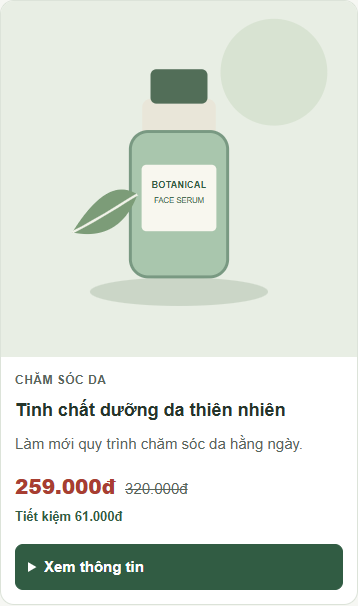
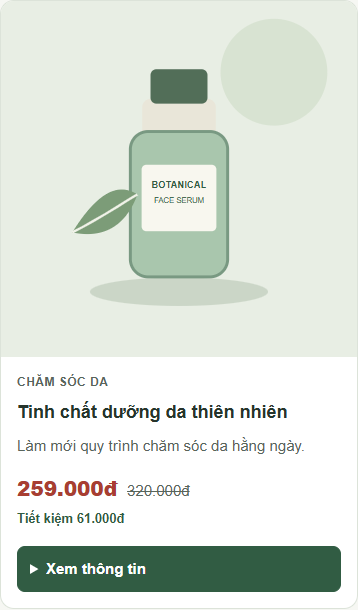
Record student CSS practice and final verification

diff --git a/css/style.css b/css/style.css
@@ -173,7 +173,7 @@ section, main { scroll-margin-top: 20px; }
   .section-heading { margin-bottom: 24px; text-align: left; }
   .section-description { font-size: .9375rem; }
   .product-grid { grid-template-columns: minmax(0, 1fr); gap: 20px; }
-  .product-info { padding: 16px; } /* THỰC HÀNH CÁ NHÂN: thử tăng lên 16px. */
+  .product-info { padding: 16px; } /* Thực hành cá nhân: tăng từ 14px lên 16px. */
   .product-name { min-height: 0; font-size: 1.125rem; }
   .product-description { font-size: .9375rem; }
   .old-price { font-size: .9375rem; }

diff --git a/README.md b/README.md
@@ -32,10 +32,10 @@ Không cần cài thư viện hoặc kết nối mạng để xem trang. Liên k
 
 | Chiều rộng px | Số cột | Chiều rộng tài liệu px | Padding nội dung thẻ | Kết quả |
 |---:|---:|---:|---|---|
-| 320 | 1 | 320 | 14px | Đạt |
-| 360 | 1 | 360 | 14px | Đạt |
-| 390 | 1 | 390 | 14px | Đạt |
-| 599 | 1 | 599 | 14px | Đạt |
+| 320 | 1 | 320 | 16px | Đạt |
+| 360 | 1 | 360 | 16px | Đạt |
+| 390 | 1 | 390 | 16px | Đạt |
+| 599 | 1 | 599 | 16px | Đạt |
 | 600 | 2 | 600 | 20px | Đạt |
 | 768 | 2 | 768 | 20px | Đạt |
 | 1023 | 2 | 1023 | 20px | Đạt |
@@ -69,10 +69,10 @@ Không cần cài thư viện hoặc kết nối mạng để xem trang. Liên k
 
 Codex hỗ trợ phân tích, sửa HTML/CSS, thực nghiệm trên trình duyệt, chụp ảnh và biên soạn báo cáo. Prompt và nội dung kiểm tra được ghi trong `AI_USAGE.md`; không gọi các nhóm công việc biên tập là những tin nhắn đã gửi riêng biệt.
 
-Hướng dẫn đã được cung cấp; chưa có xác nhận sinh viên hoàn thành thao tác tự sửa. Kết quả tự động được ghi riêng, không dùng để xác nhận thao tác cá nhân.
+Sinh viên xác nhận “Tôi vừa sửa xong thành 16px”. AI đối chiếu file đã lưu, kiểm tra lại bản mã đồng bộ và chụp ảnh trước/sau từ hai trạng thái mã. Thao tác sửa CSS do sinh viên thực hiện; số đo và ảnh trong bộ bài do AI thực hiện.
 
 ## Repository
 
-[Hoan1604/PTUD-ecommerce-ui-improvement](https://github.com/Hoan1604/PTUD-ecommerce-ui-improvement) · nhánh `main`. Bản mã được chuẩn bị trên nhánh `main`, kế thừa lịch sử Buổi 1. Trạng thái push được ghi riêng trong `tai-lieu/GITHUB.md`.
+[Hoan1604/PTUD-ecommerce-ui-improvement](https://github.com/Hoan1604/PTUD-ecommerce-ui-improvement) · nhánh `main`. Đã push lên nhánh `main` và đối chiếu mã commit trên máy với GitHub.
 
 Không có xác nhận triển khai GitHub Pages trong bộ bài này.

diff --git a/tai-lieu/THUC_HANH_CA_NHAN.md b/tai-lieu/THUC_HANH_CA_NHAN.md
@@ -22,9 +22,9 @@ Phải sửa quy tắc trong media query vì mục tiêu là điện thoại; qu
 4. Quan sát khoảng cách chữ tới viền và bấm Xem thông tin; chụp ảnh sau sửa.
 5. Đối chiếu: 390px vẫn một cột; không tràn ngang; từ 600px trở lên padding cơ sở vẫn 20px.
 
-**Ghi nhận:** Hướng dẫn đã được cung cấp; chưa có xác nhận sinh viên hoàn thành thao tác tự sửa. Kết quả tự động được ghi riêng, không dùng để xác nhận thao tác cá nhân.
+**Ghi nhận:** Sinh viên xác nhận “Tôi vừa sửa xong thành 16px”. AI đối chiếu file đã lưu, kiểm tra lại bản mã đồng bộ và chụp ảnh trước/sau từ hai trạng thái mã. Thao tác sửa CSS do sinh viên thực hiện; số đo và ảnh trong bộ bài do AI thực hiện.
 
-Ảnh `minh-chung/tu-thuc-hanh/truoc-390.png` là ảnh do AI chụp từ bản CSS 14px thật trước khi gửi hướng dẫn. Ảnh `sau-390.png`, nếu có, được AI chụp lại sau khi bản mã 16px đã được xác nhận; không gọi đây là ảnh sinh viên tự gửi. Các ảnh CSS ghi đè tạm, nếu có, nằm trong `thu-nghiem/` và không dùng làm bằng chứng thao tác cá nhân.
+Ảnh `minh-chung/tu-thuc-hanh/truoc-390.png` là ảnh do AI chụp từ bản CSS 14px thật trước khi gửi hướng dẫn. Ảnh `sau-390.png` được AI chụp lại sau khi bản mã 16px đã được xác nhận; không gọi đây là ảnh sinh viên tự gửi. Các ảnh CSS ghi đè tạm nằm trong `thu-nghiem/` và không dùng làm bằng chứng thao tác cá nhân.
 
 ## Năm yêu cầu sửa mã giảng viên có thể chọn
 

diff --git a/tai-lieu/DOI_CHIEU_YEU_CAU.md b/tai-lieu/DOI_CHIEU_YEU_CAU.md
@@ -12,7 +12,7 @@ Nguồn yêu cầu: `BaiTap_CaNhan_Buoi2 (1).pdf` do sinh viên cung cấp, 23 t
 | Flexbox và so sánh giá trị thuộc tính | tr. 12–15 | product-prices/nav-list; ảnh thử và số đo 10/63,05px |
 | Grid mở rộng, thử 2 hoặc 3 cột, ảnh không méo | tr. 15–17 | grid-2-cot/grid-3-cot; cuối 4/2/1; contain và khung vuông |
 | Hover, transition, focus-visible | tr. 17–19 | ảnh normal/hover/focus; Tab/Enter/Space |
-| Bảng kiểm, phát hiện và tự sửa nhỏ | tr. 19–20 | KIEM_THU.md; THUC_HANH_CA_NHAN.md; thao tác cá nhân chờ xác nhận |
+| Bảng kiểm, phát hiện và tự sửa nhỏ | tr. 19–20 | KIEM_THU.md; THUC_HANH_CA_NHAN.md; đã có xác nhận sinh viên |
 | 7 câu hỏi kiến thức | tr. 21 | CAU_HOI_KIEN_THUC.md; mục tương ứng trong Word |
 | Chuẩn bị sửa mã trực tiếp | tr. 21 | Bảng 5 tình huống trong THUC_HANH_CA_NHAN.md |
 | README, AI_USAGE, commit và push repo cũ | tr. 21–23 | README.md; AI_USAGE.md; GITHUB.md |

diff --git a/AI_USAGE.md b/AI_USAGE.md
@@ -38,7 +38,7 @@ Các dòng sau là **tóm tắt công việc đã thực hiện**, sắp xếp t
 
 ## Phần sinh viên tự điều chỉnh
 
-Hướng dẫn đã được cung cấp; chưa có xác nhận sinh viên hoàn thành thao tác tự sửa. Kết quả tự động được ghi riêng, không dùng để xác nhận thao tác cá nhân. Xem `tai-lieu/THUC_HANH_CA_NHAN.md`.
+Sinh viên xác nhận “Tôi vừa sửa xong thành 16px”. AI đối chiếu file đã lưu, kiểm tra lại bản mã đồng bộ và chụp ảnh trước/sau từ hai trạng thái mã. Thao tác sửa CSS do sinh viên thực hiện; số đo và ảnh trong bộ bài do AI thực hiện. Xem `tai-lieu/THUC_HANH_CA_NHAN.md`.
 
 ## Kiểm chứng và giới hạn
 

diff --git a/tai-lieu/GITHUB.md b/tai-lieu/GITHUB.md
@@ -4,7 +4,7 @@ Repository kế thừa Buổi 1: https://github.com/Hoan1604/PTUD-ecommerce-ui-i
 Nhánh: `main`  
 Commit Buổi 1: `a43d5581a9fe3fa6ca2ddd81af50020a3a9e63ef`
 
-Bản mã được chuẩn bị trên nhánh `main`, kế thừa lịch sử Buổi 1. Trạng thái push được ghi riêng trong `tai-lieu/GITHUB.md`.
+Đã push lên nhánh `main` và đối chiếu mã commit trên máy với GitHub.
 
 ## Cách cập nhật từ bản tải về không có thư mục git
 
